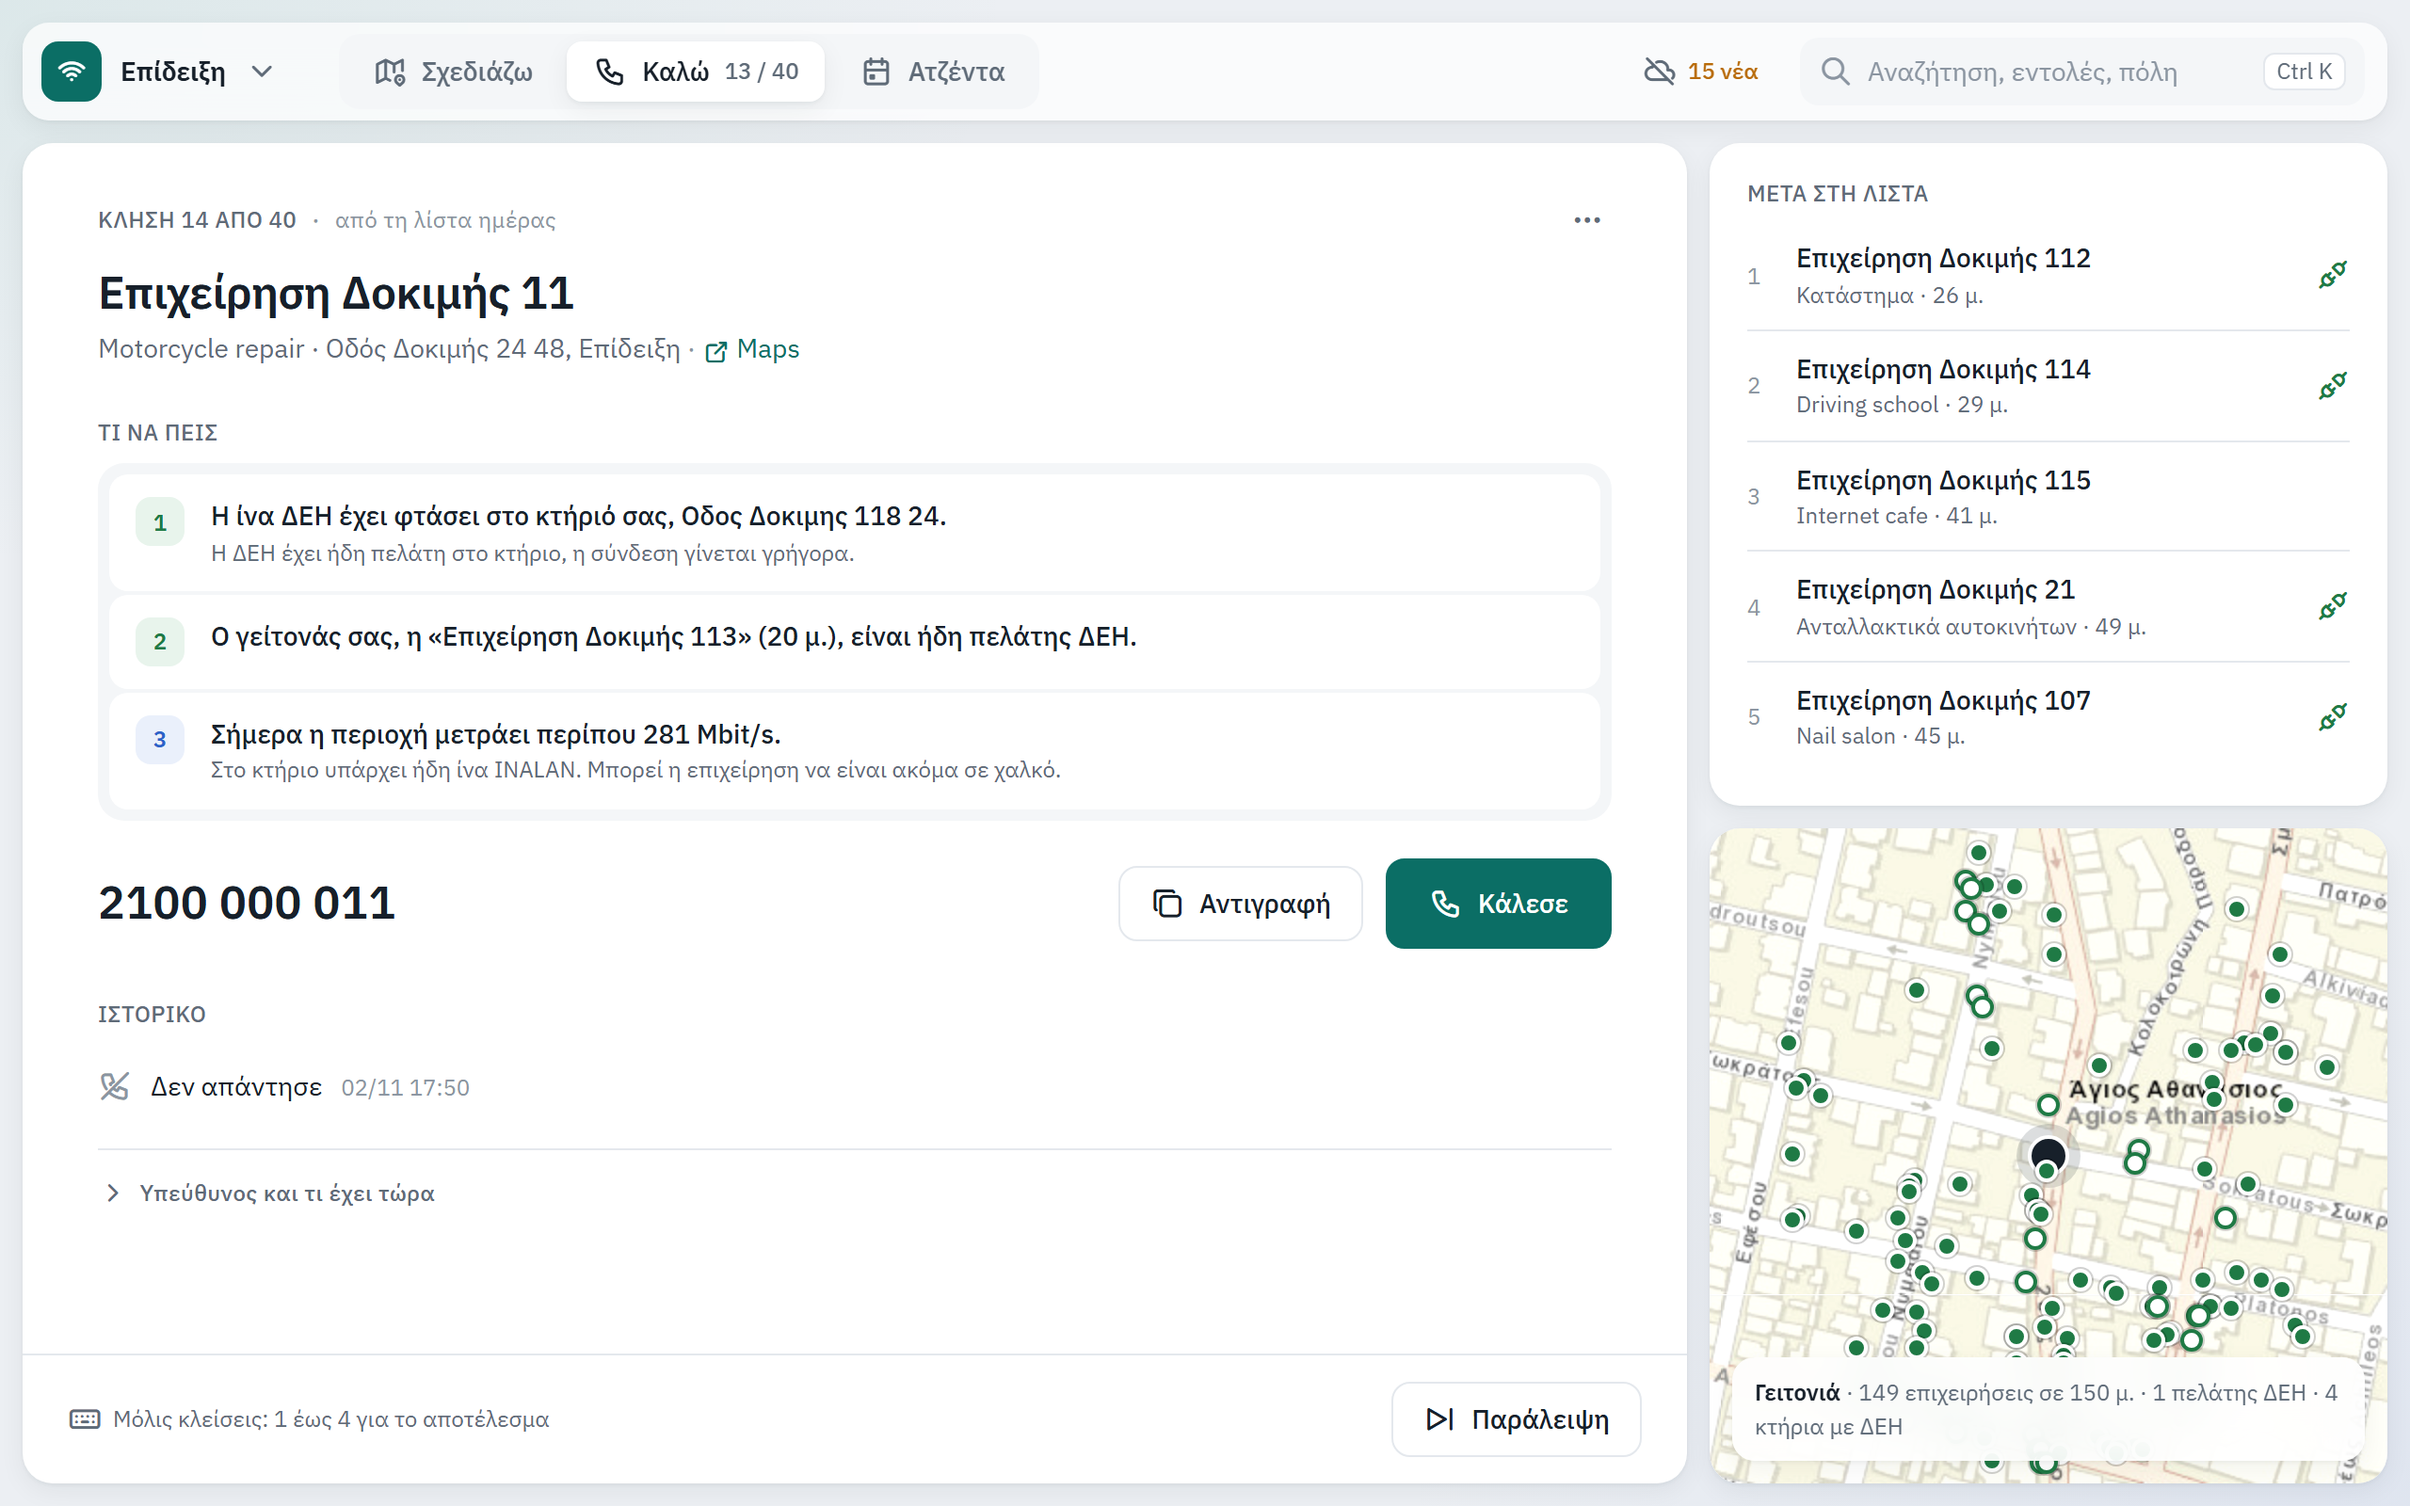
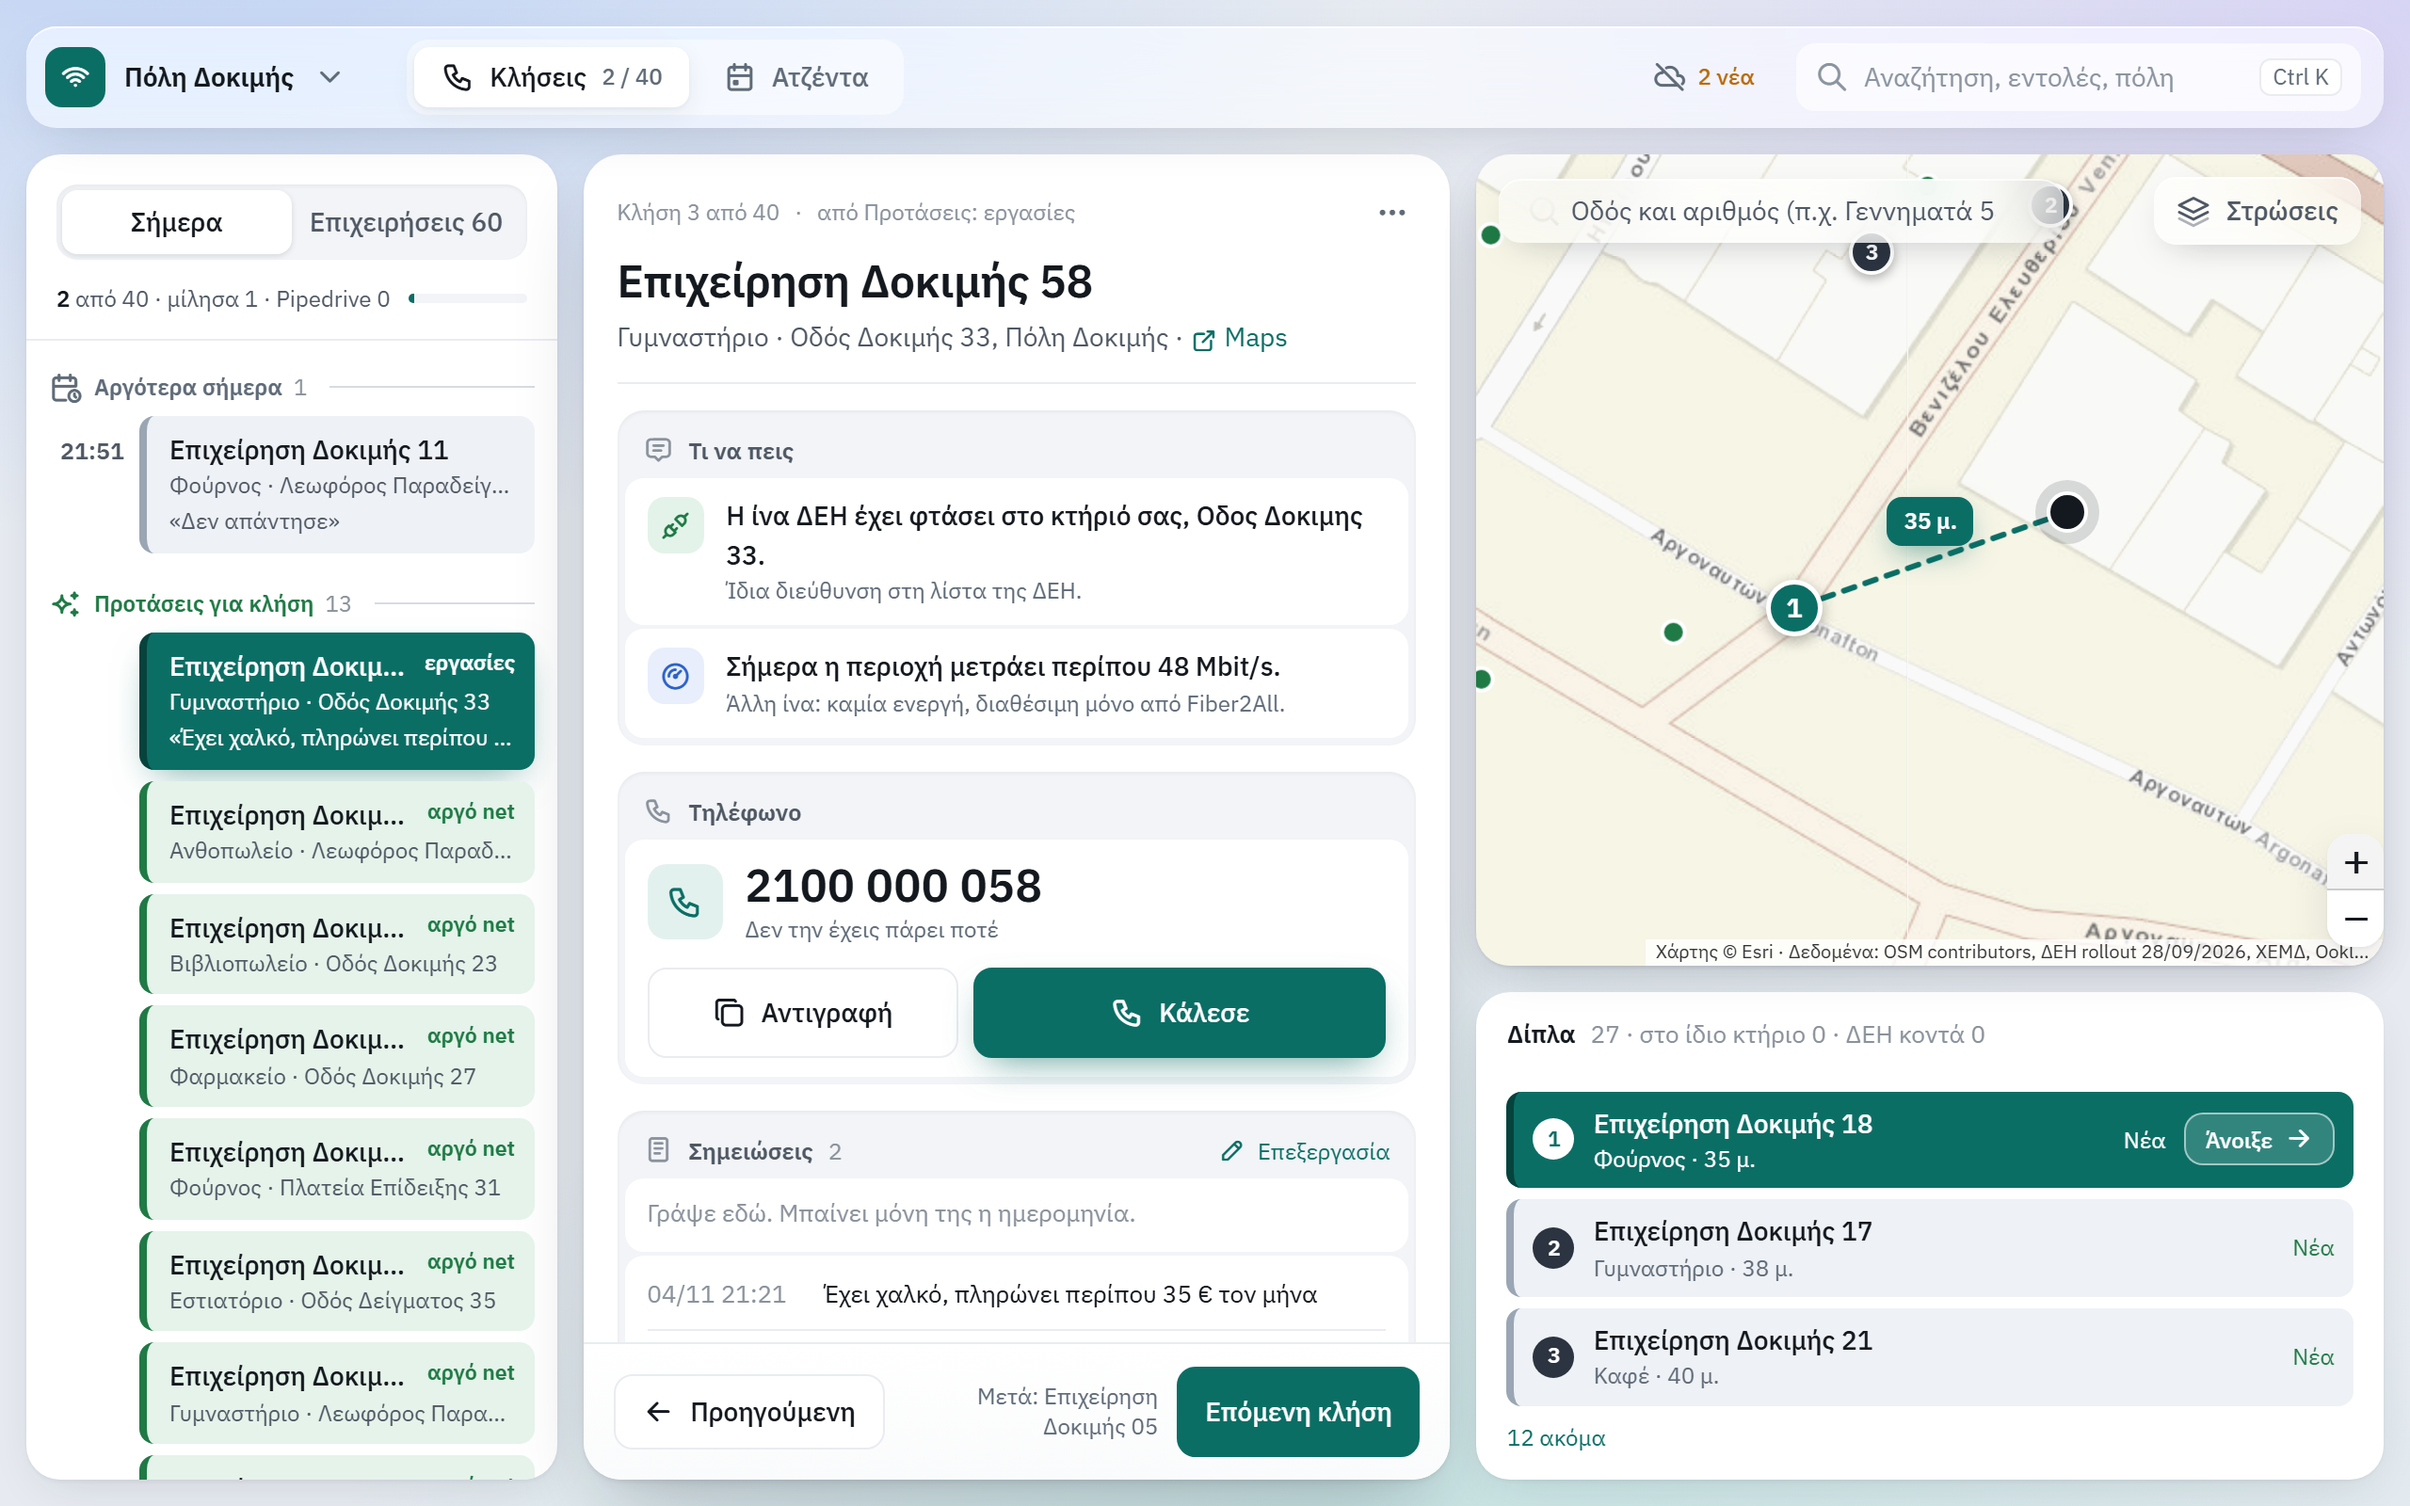
Prospecting map: screenshot of the new one-screen call view

diff --git a/README.md b/README.md
@@ -94,7 +94,7 @@ Before each call the rep sees what to say: whether fiber reached the building, w
 
 **How I worked.** I built it with AI-assisted development. I decided what the map had to answer, tested it on my own calls and changed it from daily use. Each new coverage file goes through a check for suspicious address numbers before the maps are rebuilt.
 
-![A business open for a call: what to say (fiber in the building, a neighbour who is already a customer, measured speed), the phone and the call history, with the next calls and a map of the street beside it](images/prospecting-map.png)
+![The call screen: today's call list on the left, the business on the call in the middle (what to say, the phone, every note, the outcome) and the map on the right, with the nearest businesses and the distance to one of them](images/prospecting-map.png)
 
 *Demo data: the streets, buildings, businesses and coverage are made up. The real map holds customer and company data.*
 
